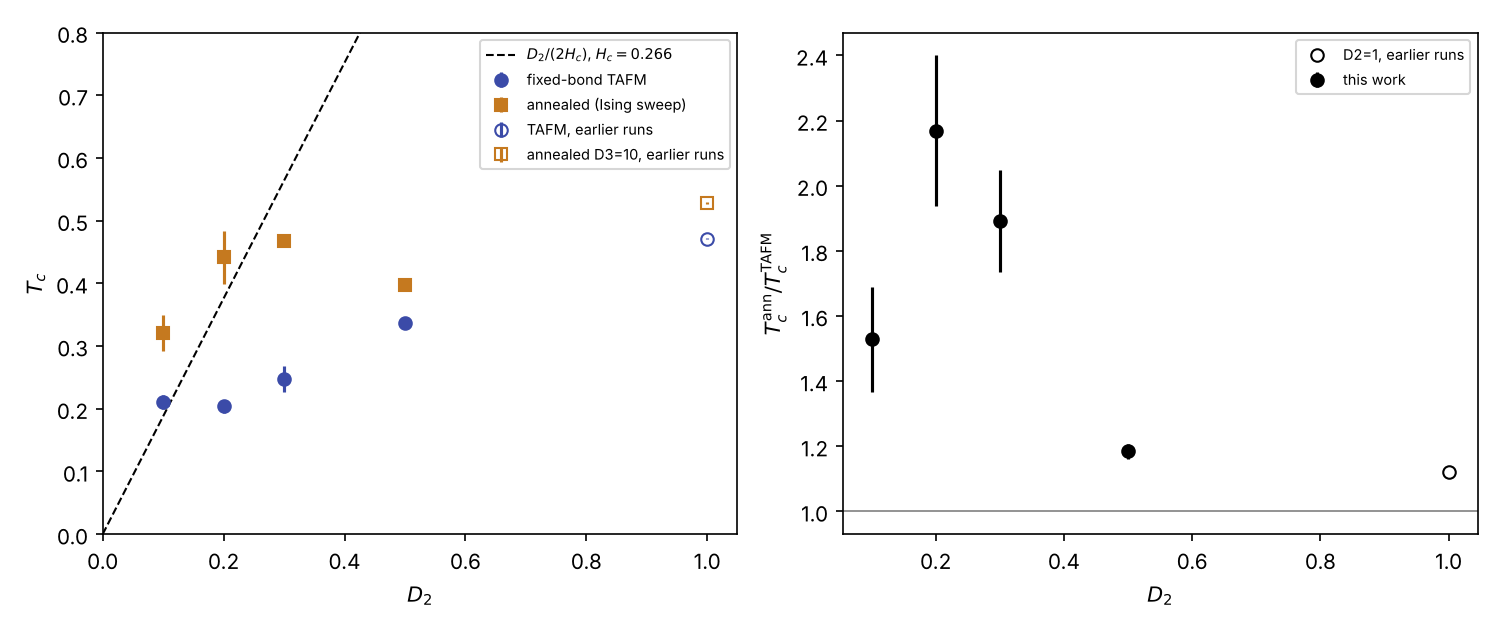
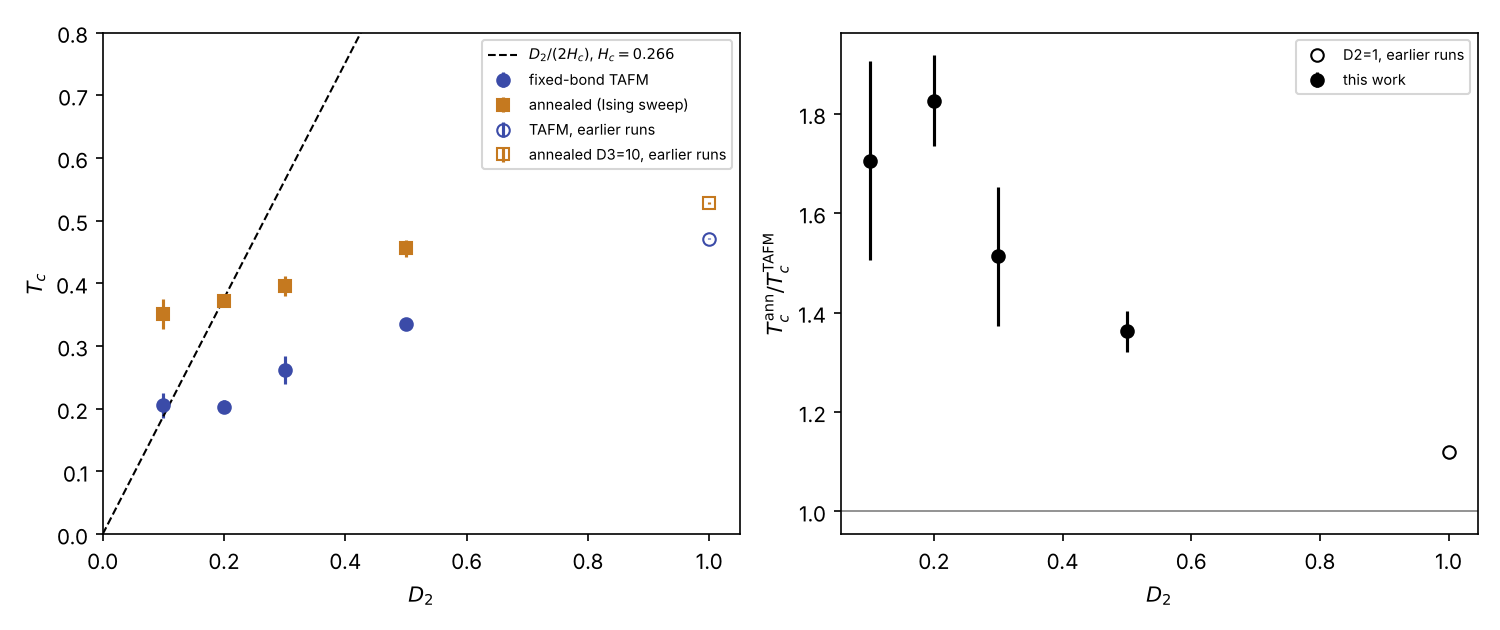
Part IX 2b: zero-field baseline in the small-D2 analysis; stage B runs (in progress)
Claude-Session: https://claude.ai/code/session_01FZuPgDsQwzj2a9rNpbE91s

diff --git a/results/smallD2/tc_small_d2.py b/results/smallD2/tc_small_d2.py
@@ -130,6 +130,9 @@ def start_check():
     return sorted(rows)
 
 
+RES0 = {}
+
+
 def main():
     lines = []
     w = lines.append
@@ -144,6 +147,15 @@ def main():
             res[(model, D2)] = (Ls, pairs)
             w(f"D2={D2:g} {model:4s} sizes {Ls}: " + ", ".join(
                 f"L={a}/{b}: {t:.3f}({e:.3f})" + (" [at grid edge]" if edge > 0.3 else "") for a, b, t, e, edge in pairs))
+    w("")
+    w("# zero-field baseline (D2=0: no transition, only the finite-size drop where xi_0(T) ~ L), same estimator:")
+    for model in ("tafm", "ann"):
+        Ls, pairs = crossings(model, 0.0)
+        res[(model, 0.0)] = (Ls, pairs)
+        w(f"D2=0   {model:4s} sizes {Ls}: " + ", ".join(
+            f"L={a}/{b}: {t:.3f}({e:.3f})" + (" [at grid edge]" if edge > 0.3 else "") for a, b, t, e, edge in pairs))
+    w("# A small-D2 crossing that coincides with the D2=0 one for the same pair is the zero-field")
+    w("# finite-size crossover, not the field-induced T_c (see u4_<model>_d2<D2>.txt and u4_<model>_d20.txt).")
     w("")
     hdr = f"{'D2':>4} | {'T_c TAFM':>15} {'pair':>6} | {'T_c ann':>15} {'pair':>6} | {'ann/TAFM':>14} | {'H TAFM':>6} {'H ann':>6} | {'D2/(2Hc)':>8}"
     w(hdr)
@@ -167,6 +179,7 @@ def main():
     text = "\n".join(lines) + "\n"
     open(f"{OUT}/summary.txt", "w").write(text)
     print(text)
+    RES0.update({m: res[(m, 0.0)][1] for m in ("tafm", "ann")})
     plot(table)
 
 
@@ -175,6 +188,7 @@ def plot(table):
     matplotlib.use("Agg")
     import matplotlib.pyplot as plt
     t = np.array(table, float)
+    import glob as _g
     fig, ax = plt.subplots(1, 2, figsize=(10, 4.2))
     a = ax[0]
     a.errorbar(t[:, 0], t[:, 1], t[:, 2], fmt="o", color="#3b4ba8", label="fixed-bond TAFM")
@@ -183,6 +197,11 @@ def plot(table):
     a.errorbar([1.0], [0.528], [0.002], fmt="s", mfc="none", color="#c5791f", label="annealed D3=10, earlier runs")
     x = np.linspace(0, 1.05, 50)
     a.plot(x, x / (2 * HC), "k--", lw=1, label=r"$D_2/(2H_c)$, $H_c=0.266$")
+    for m, c in (("tafm", "#3b4ba8"), ("ann", "#c5791f")):
+        z = [p for p in RES0.get(m, []) if np.isfinite(p[2])]
+        if z:
+            a.axhspan(min(p[2] for p in z), max(p[2] for p in z), color=c, alpha=0.12, lw=0,
+                      label=f"D2=0 finite-size drop ({m}, L={z[0][0]}-{z[-1][1]})")
     a.set_xlim(0, 1.05)
     a.set_ylim(0, 0.8)
     a.set_xlabel(r"$D_2$")
